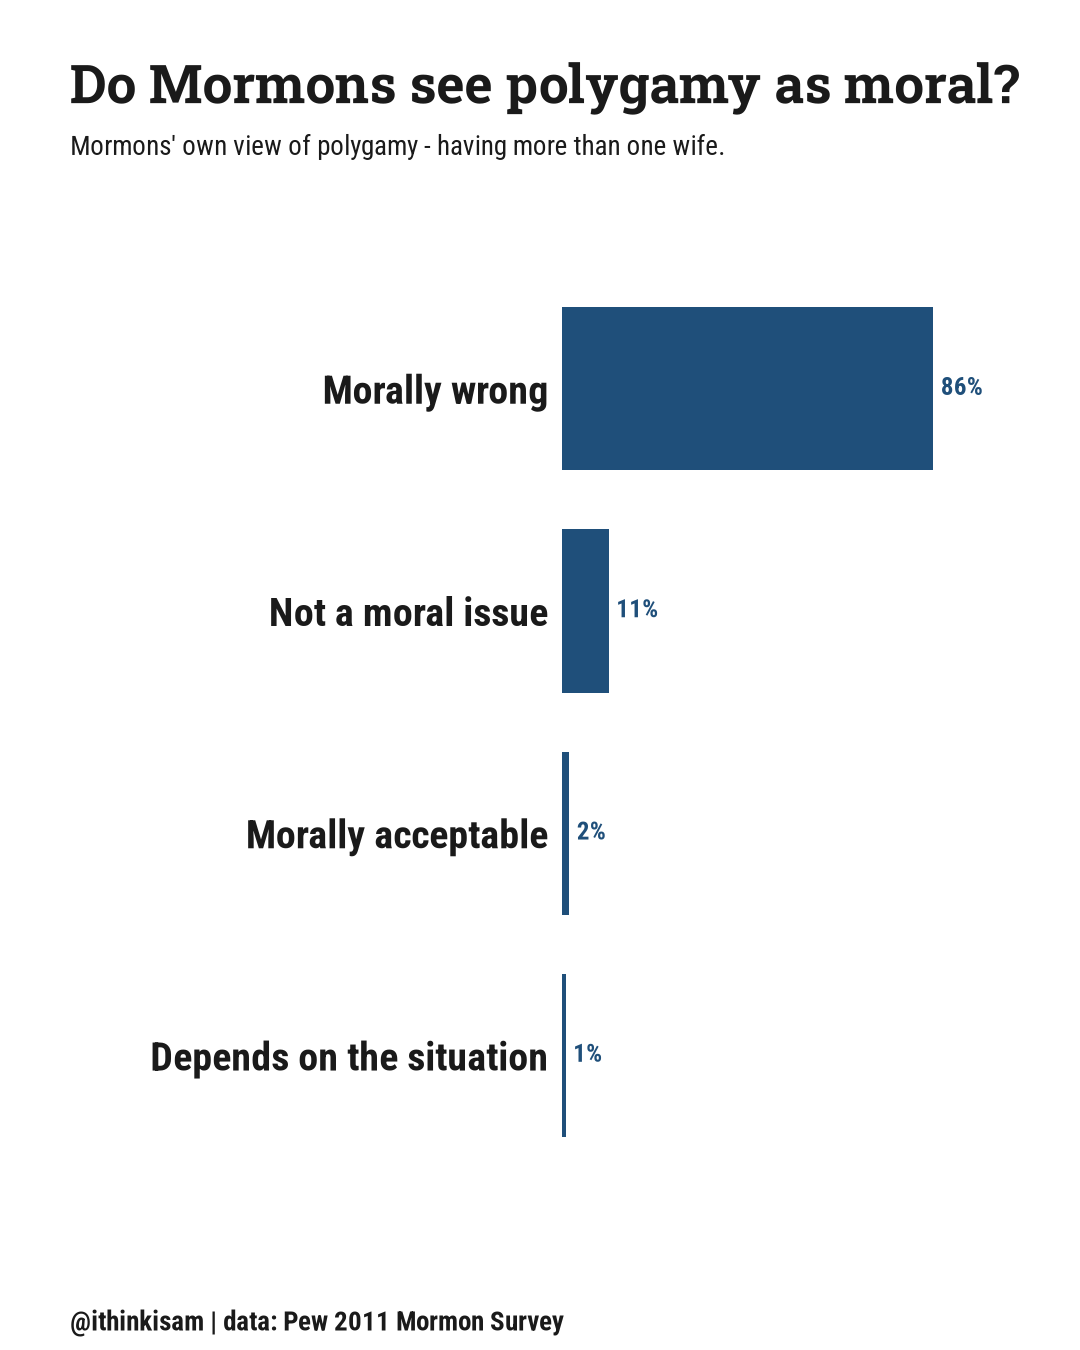
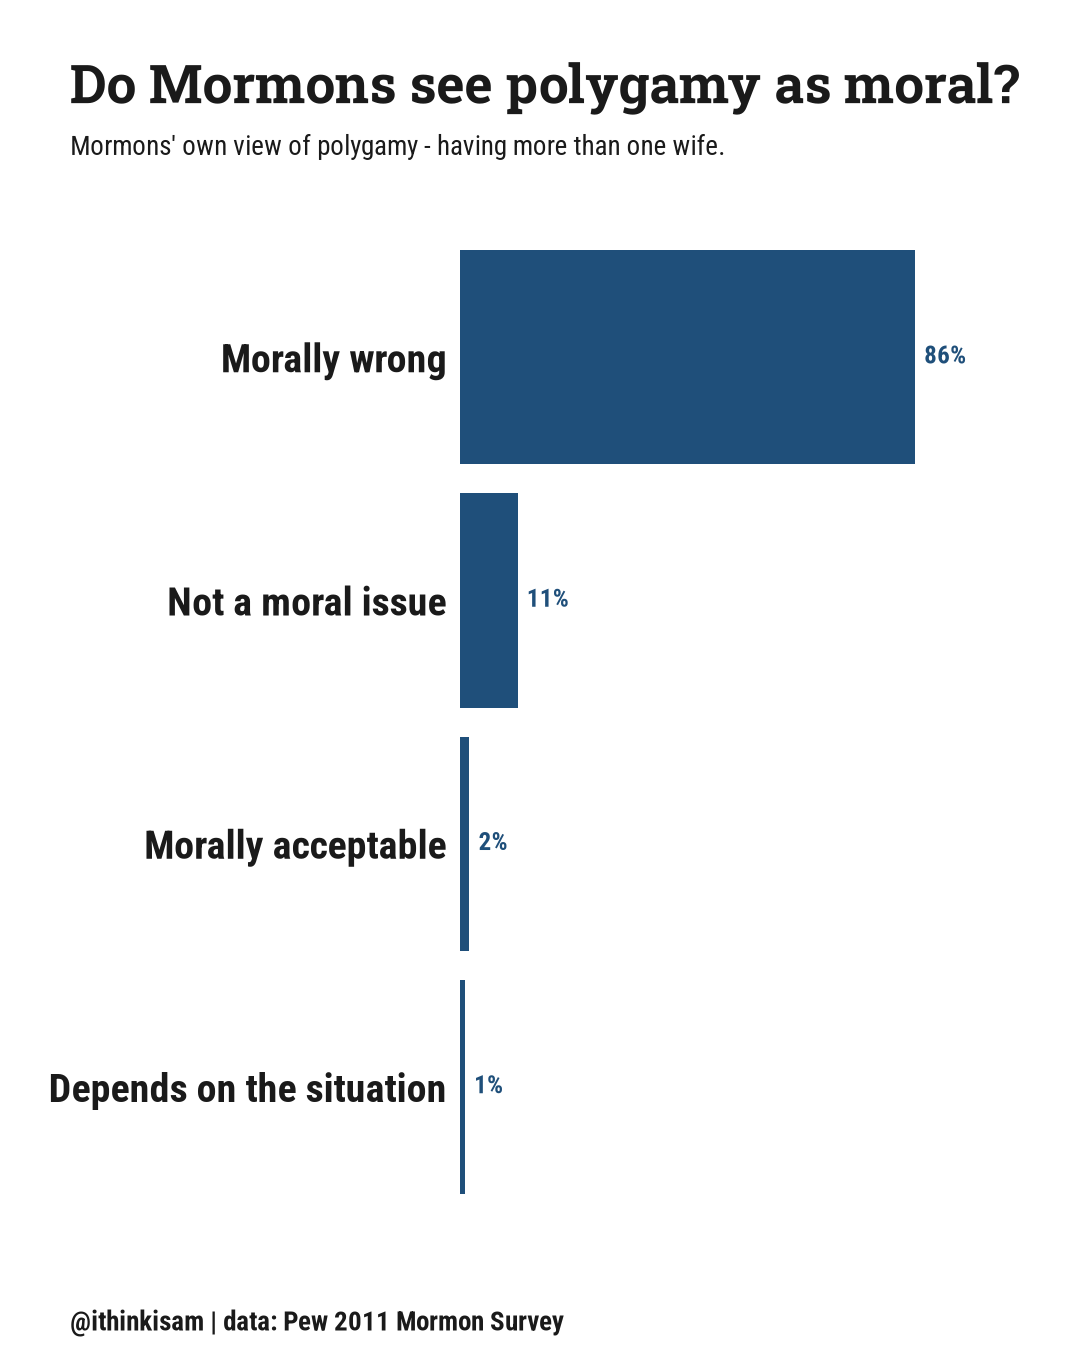
Shrink polygamy-morality's left margin and tighten its bar spacing further
Dropped the chart's hardcoded axes_left=0.52 override (above
render_magnitude_bar's own 0.46 auto-widen cap) so labels and bars both
shift left and bars get noticeably wider - the override predated the
auto-measure/auto-widen left-margin logic and was just an old manual
guess.

Also adds bar_h_override/margin_frac_override to render_magnitude_bar
so one caller can pack its bars tighter than the standard low-row
scaling without changing that formula (and every other <7-row chart)
again - this chart's 4 rows still read as sparse at the standard
scaling. Every other caller is unaffected (both new params default to
None); spot-checked core-beliefs.png (3 rows) renders byte-identical.

Changed region(s): [[0.1528, 0.1867, 0.9167, 0.5289], [0.0306, 0.7467, 0.55, 0.84], [0.1222, 0.56, 0.55, 0.7156]]

diff --git a/scripts/flagship-charts/common.py b/scripts/flagship-charts/common.py
@@ -216,6 +216,8 @@ def render_magnitude_bar(
     group_identity: bool = False,
     row_colors: dict[str, str] | None = None,
     value_label_fontsize: float | None = None,
+    bar_h_override: float | None = None,
+    margin_frac_override: float | None = None,
 ) -> None:
     """One horizontal bar per `rows` entry (already in top-to-bottom display
     order), reading its value from `values[row]`. `caption_paragraphs`,
@@ -266,6 +268,12 @@ def render_magnitude_bar(
     a caller that wants the two to read at the same weight - e.g. a chart
     meant to stand alone as a single shareable image rather than sit in a
     dense gallery grid. Leave unset to keep the pipeline default.
+
+    `bar_h_override`/`margin_frac_override` replace the automatic
+    n_rows-based bar_h/margin_frac below for one specific caller, without
+    touching the formula every other <7-row chart still uses - e.g. a
+    very-low-row-count chart (2-4 rows) that still reads as sparse at the
+    standard scaling. Leave both unset to keep the pipeline default.
     """
     fonts = fonts or load_fonts()
     fig = plt.figure(figsize=(FIG_W_IN, FIG_H_IN), dpi=DPI)
@@ -322,6 +330,11 @@ def render_magnitude_bar(
         t = max(0.0, (n_rows - 1) / 6.0)  # 0 at n_rows=1 -> ~0.83 at n_rows=6
         bar_h = 0.85 - 0.23 * t  # 0.85 at n_rows=1 -> ~0.66 at n_rows=6
         margin_frac = 0.05 + 0.06 * t  # 0.05 at n_rows=1 -> ~0.10 at n_rows=6
+
+    if bar_h_override is not None:
+        bar_h = bar_h_override
+    if margin_frac_override is not None:
+        margin_frac = margin_frac_override
 
     # Wrap any row label onto multiple lines if a single unbroken line would
     # eat too much of the canvas - a caller whose rows are full survey-item

diff --git a/scripts/pew-mormon-survey-2011/render_polygamy_chart.py b/scripts/pew-mormon-survey-2011/render_polygamy_chart.py
@@ -44,7 +44,11 @@ def main():
         handle="@ithinkisam | data: Pew 2011 Mormon Survey",
         out_path=args.out,
         fonts=load_fonts(),
-        axes_left=0.52,
+        # Only 4 rows - the standard low-row scaling in render_magnitude_bar
+        # still left this one visibly sparse, so pack it tighter than any
+        # other <7-row chart currently asks for.
+        bar_h_override=0.88,
+        margin_frac_override=0.03,
     )
 
 
